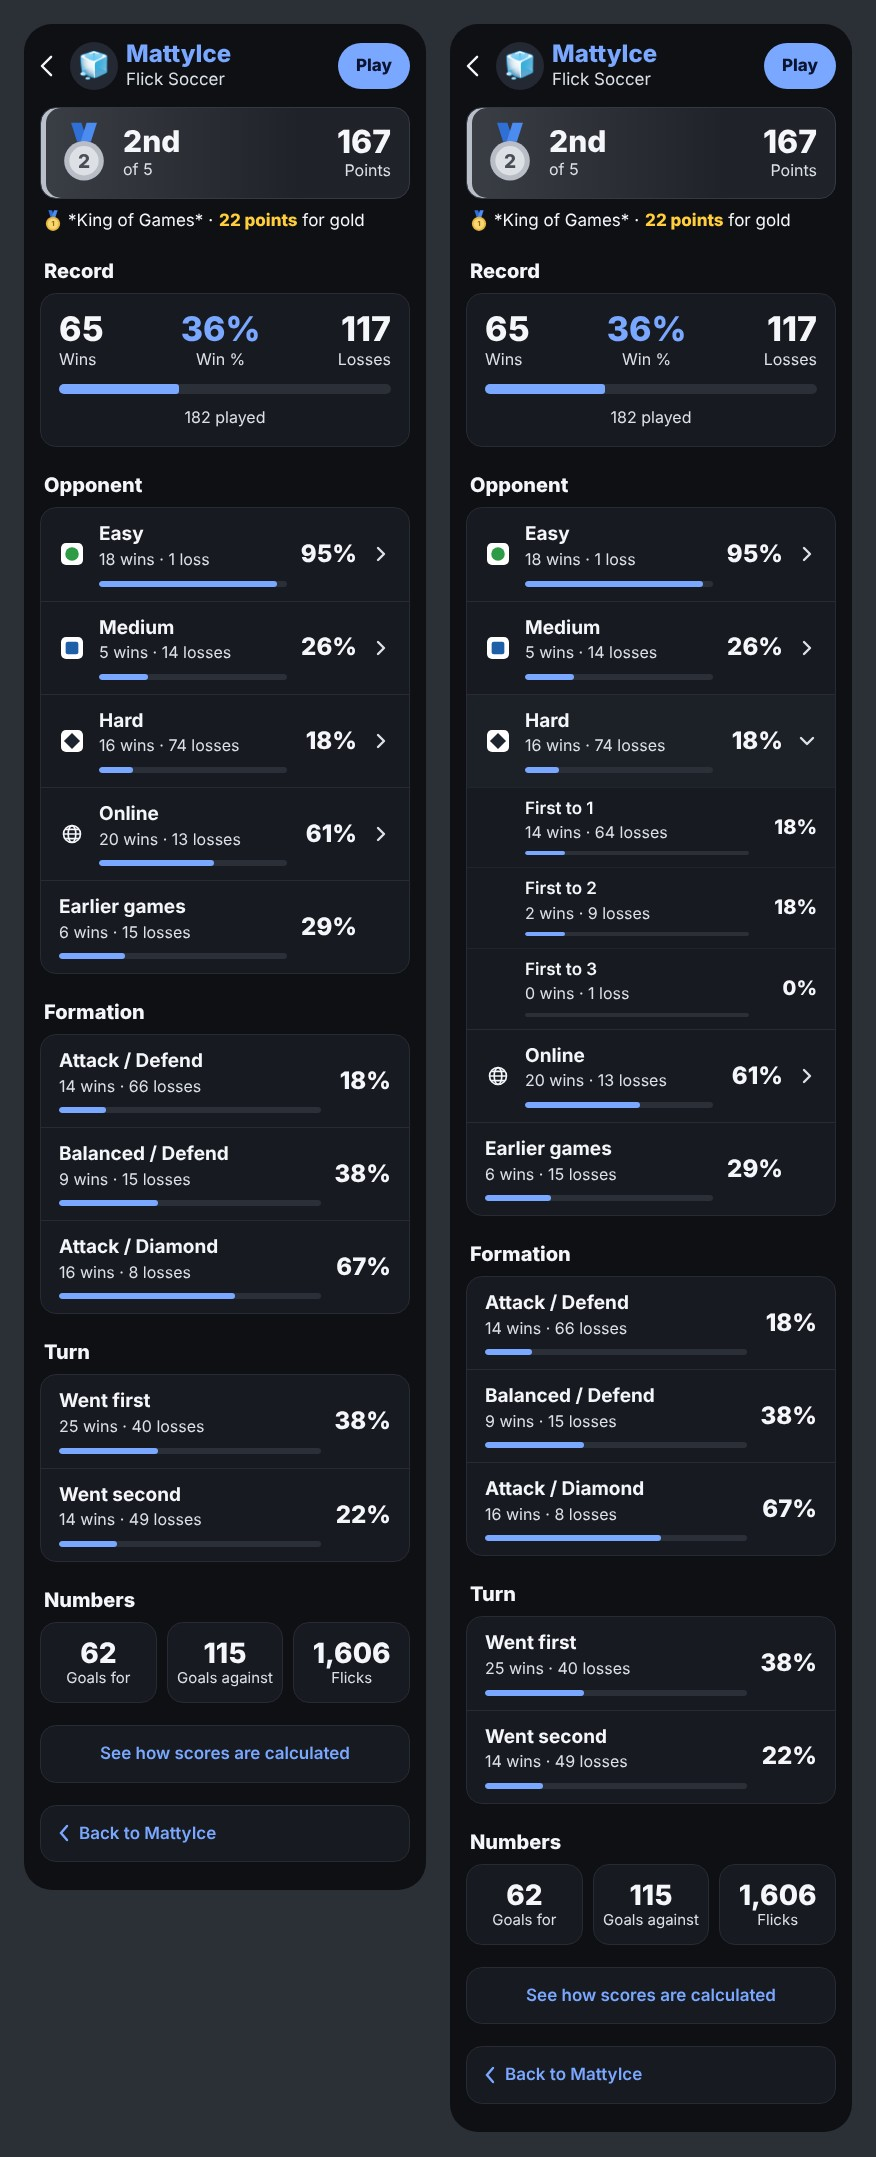
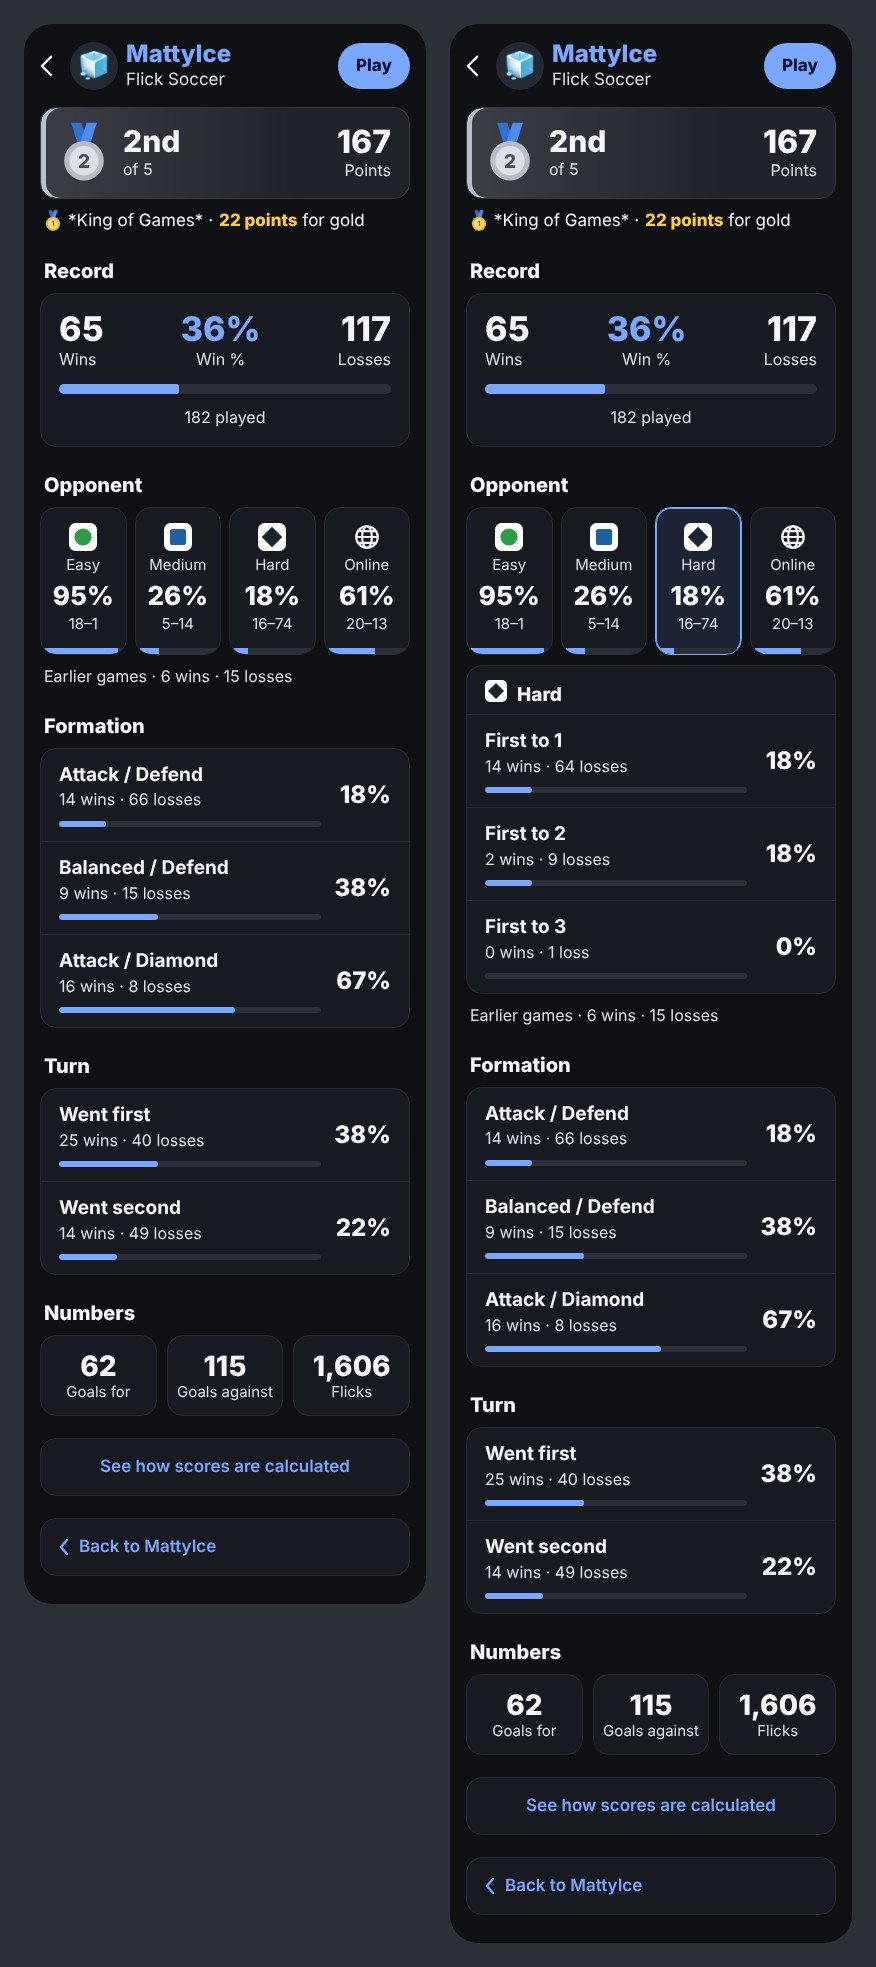
Mockup: Flick Soccer levels as a strip of columns (shape, name, win %, record); tap one for first to 1/2/3
Claude-Session: https://claude.ai/code/session_01BGm65ZYhCPDBaTbUDzWngg

diff --git a/docs/mockups/lb2-player-game-v2.html b/docs/mockups/lb2-player-game-v2.html
@@ -95,6 +95,22 @@ body{background:#2B2F36;font:17px/1.4 -apple-system,BlinkMacSystemFont,"SF Pro T
 .strip .w{font-size:15px;color:var(--sub);white-space:nowrap}
 .strip b{font-size:28px;font-weight:800;line-height:1.15;margin-top:4px;white-space:nowrap}
 .strip small{font-size:15px;color:var(--sub);line-height:1.25;white-space:nowrap}
+/* Flick Soccer level strip */
+.lvstrip{display:grid;grid-template-columns:repeat(4,minmax(0,1fr));gap:8px}
+.lv{all:unset;cursor:pointer;display:flex;flex-direction:column;align-items:center;gap:2px;padding:14px 4px 0;background:var(--surf);border:1px solid var(--line);border-radius:16px;overflow:hidden;text-align:center;font:inherit;color:var(--text)}
+.lv .sh{height:30px;display:flex;align-items:center}
+.lv .sh svg{height:28px;width:auto}
+.lv .w{font-size:15px;color:var(--sub);white-space:nowrap}
+.lv b{font-size:26px;font-weight:800;line-height:1.15;margin-top:4px}
+.lv small{font-size:15px;color:var(--sub);margin-bottom:12px}
+.lv .lvbar{display:block;align-self:stretch;height:6px;background:var(--track)}
+.lv .lvbar i{display:block;height:100%;background:var(--accent)}
+.lv.on{border-color:var(--accent);box-shadow:inset 0 0 0 1px var(--accent);background:#1C2433}
+.lvcard{margin-top:10px}
+.lvh{display:flex;align-items:center;gap:10px;padding:14px 18px 4px;font-size:19px;font-weight:800}
+.lvh .sh svg{height:22px;width:auto}
+.lvp .row:first-of-type{border-top:0}
+.lv-earlier{margin:10px 4px 0;font-size:16px;color:var(--sub)}
 /* golf holes */
 .holes{padding:12px 14px 16px}
 .holes h5{font-size:17px;font-weight:700;margin:6px 4px 10px}
@@ -156,6 +172,19 @@ const grp = (icon, label, w, l, subs, open) => `<div class="grp${open ? ' open' 
 const spark = (vals) => { const mx = Math.max(...vals), n = vals.length; const pts = vals.map((v, i) => `${(i * 300) / (n - 1)},${38 - (v / mx) * 34}`).join(' '); return `<svg viewBox="0 0 300 40" preserveAspectRatio="none"><polyline points="${pts}" fill="none" stroke="#7AA7FF" stroke-width="2.5" vector-effect="non-scaling-stroke"/></svg>`; };
 const mach = (color, name, q, days, vals) => `<div class="card mc"><h5><i style="background:${color}"></i>${name}</h5><div class="q">${q.map(([v, l]) => `<div><b>${v}</b><span>${l}</span></div>`).join('')}</div><div class="sp"><span>Best a day</span>${spark(vals)}<span>${days} days</span></div></div>`;
 const WORD = { 1: 'Easy', 2: 'Medium', 3: 'Hard', 4: 'Expert' };
+// Flick Soccer's levels (Matt, 2026-11-08: "they all look identical at a glance"): a strip of columns, each level's
+// big shape, name, win % and record; tap one to open its "first to" lines under the strip. Folded by default.
+const levels = (L, open) => {
+  const cells = L.map(([t, name, w, l], i) => `<button class="lv${i === open ? ' on' : ''}" data-i="${i}" onclick="lvTap(this)"><span class="sh">${t === 'online' ? GLOBE : SH[t]}</span><span class="w">${name}</span><b>${pc(w, l)}%</b><small>${w}–${l}</small><i class="lvbar"><i style="width:${pc(w, l)}%"></i></i></button>`).join('');
+  const panels = L.map(([t, name, w, l, subs], i) => `<div class="lvp" data-i="${i}"${i === open ? '' : ' hidden'}><div class="lvh"><span class="sh">${t === 'online' ? GLOBE : SH[t]}</span>${name}</div>${subs.map(([lab, sw, sl]) => row({ label: lab, sub: wl(sw, sl), bar: pc(sw, sl), right: pc(sw, sl) + '%' })).join('')}</div>`).join('');
+  return `<div class="lvs"><div class="lvstrip">${cells}</div><div class="card lvcard"${open >= 0 ? '' : ' hidden'}>${panels}</div></div>`;
+};
+function lvTap(btn) {
+  const box = btn.closest('.lvs'), i = btn.dataset.i, was = btn.classList.contains('on');
+  box.querySelectorAll('.lv').forEach((b) => b.classList.toggle('on', !was && b === btn));
+  box.querySelector('.lvcard').hidden = was;
+  box.querySelectorAll('.lvp').forEach((p) => { p.hidden = was || p.dataset.i !== i; });
+}
 // strip([[tier or label, big, small, small2?], ...]): the level's shape and word, the number, a caption.
 const strip = (cells) => `<div class="strip" style="grid-template-columns:repeat(${cells.length},minmax(0,1fr))">${cells.map(([t, big, sm, sm2]) => {
   const tier = typeof t === 'number' ? t : (Array.isArray(t) ? t[0] : 0);
@@ -169,13 +198,12 @@ const P = [];
 // 1. Flick Soccer: Opponent = the level PICKED; tap a level for first to 1 / 2 / 3 (byMode). Folded by default.
 const flick = (openHard) => topBar(...MATTY, 'Flick Soccer', true) + stand(2, 5, '167', 'Points') + gap('*King of Games*', '<b>22 points</b> for gold')
   + h('Record') + record(65, 117, 182)
-  + h('Opponent') + `<div class="card">${[
-    grp(SH[1], 'Easy', 18, 1, [['First to 1', 12, 0], ['First to 2', 4, 1], ['First to 3', 2, 0]]),
-    grp(SH[2], 'Medium', 5, 14, [['First to 1', 0, 1], ['First to 2', 5, 13]]),
-    grp(SH[3], 'Hard', 16, 74, [['First to 1', 14, 64], ['First to 2', 2, 9], ['First to 3', 0, 1]], openHard),
-    grp(GLOBE, 'Online', 20, 13, [['First to 1', 3, 1], ['First to 2', 0, 1], ['First to 3', 4, 0], ['Earlier games', 13, 11]]),
-    grp('', 'Earlier games', 6, 15, []),
-  ].join('')}</div>`
+  + h('Opponent') + levels([
+    [1, 'Easy', 18, 1, [['First to 1', 12, 0], ['First to 2', 4, 1], ['First to 3', 2, 0]]],
+    [2, 'Medium', 5, 14, [['First to 1', 0, 1], ['First to 2', 5, 13]]],
+    [3, 'Hard', 16, 74, [['First to 1', 14, 64], ['First to 2', 2, 9], ['First to 3', 0, 1]]],
+    ['online', 'Online', 20, 13, [['First to 1', 3, 1], ['First to 2', 0, 1], ['First to 3', 4, 0], ['Earlier games', 13, 11]]],
+  ], openHard ? 2 : -1) + `<p class="lv-earlier">Earlier games · ${wl(6, 15)}</p>`
   + h('Formation') + rows([
     { label: 'Attack / Defend', sub: wl(14, 66), bar: 18, right: '18%' },
     { label: 'Balanced / Defend', sub: wl(9, 15), bar: 38, right: '38%' },
